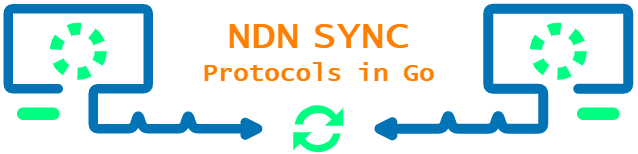
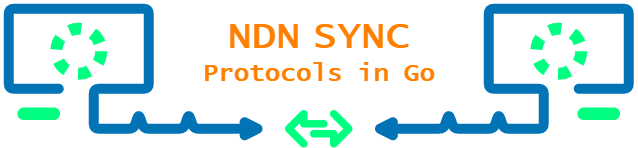
New version with new image

diff --git a/flags.go b/flags.go
@@ -24,7 +24,7 @@ package ndnsync
 
 const (
 	Branch  = "production"
-	Version = "v0.0.0-alpha.3"
+	Version = "v0.0.0-alpha.4"
 	License = "LGPL-2.1 License"
 	Source  = "github.com/justincpresley/ndn-sync"
 )

diff --git a/docs/CHANGELOG.md b/docs/CHANGELOG.md
@@ -6,8 +6,14 @@ The format is based on [Keep a Changelog](https://keepachangelog.com/en/1.0.0/),
 and this project adheres to [Go's Versioning](https://go.dev/doc/modules/release-workflow).
 
 ## [Unreleased]
+
+## [v0.0.0-alpha.4] - 2022-11-13
 - All Syncs in SVS now implement retries!
-- BloomFilter internal code. (for future plans)
+- Standardize the seqno within SVS to a uint64.
+- Utilize go-ndn's methods for encoding.
+- Exposed all internal through util due to necessary access.
+- Modified to ensure compatibility to go-ndn's latest changes.
+- BloomFilter code. (for future plans)
 
 ## [v0.0.0-alpha.3] - 2022-10-26
 ### Changed
@@ -34,7 +40,8 @@ and this project adheres to [Go's Versioning](https://go.dev/doc/modules/release
 ### Security
 - SVS does is not secure due to having lack signing / validating capabilities (waiting on go-ndn)
 
-[Unreleased]: https://github.com/justincpresley/ndn-sync/compare/v0.0.0-alpha.3...HEAD
+[Unreleased]: https://github.com/justincpresley/ndn-sync/compare/v0.0.0-alpha.4...HEAD
+[v0.0.0-alpha.4]: https://github.com/justincpresley/ndn-sync/compare/v0.0.0-alpha.3...v0.0.0-alpha.4
 [v0.0.0-alpha.3]: https://github.com/justincpresley/ndn-sync/compare/v0.0.0-alpha.2...v0.0.0-alpha.3
 [v0.0.0-alpha.2]: https://github.com/justincpresley/ndn-sync/compare/v0.0.0-alpha.1...v0.0.0-alpha.2
 [v0.0.0-alpha.1]: https://github.com/justincpresley/ndn-sync/releases/tag/v0.0.0-alpha.1
